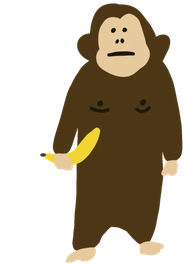
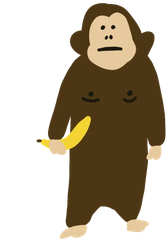
Monkey animations: idle, searching, thinking, found-it (optimised webp/gif, reduced-motion stills)

diff --git a/agora/web/js/mascot.js b/agora/web/js/mascot.js
@@ -1,0 +1,164 @@
+// The mascot's moods, from the owner's animations (assets/animations; web-sized copies in /web/assets/mascot,
+// cropped so every mood stands on the same feet with its right edge in the same place):
+//   idle       the start screen, beside the box
+//   searching  peeking over the live log while the hunt reads pages
+//   thinking   while costing / judging (first answer in, final not yet) and while the intent chips decide
+//   found-it   once, when the final verdict lands (peeking over the pick card), then a still frame
+// One monkey at a time. Animated WebP with a GIF fallback; prefers-reduced-motion gets a still frame (a
+// <source media> does that, no JS); a hidden tab gets the still too, so nothing animates unseen.
+// Module scope never touches the DOM: node tests import livelog.js and verdict.js, which import this.
+import { S, on } from './core.js';
+
+const BASE = '/web/assets/mascot/';
+export const MOODS = ['idle', 'searching', 'thinking', 'found-it'];
+export const ONCE_MS = 2000;                 // found-it's length (37 frames at 50-60 ms)
+const STILL = { 'found-it': 'monkey-found-it-still.png' };
+
+const esc = s => String(s).replace(/[&<>"']/g, c => ({ '&': '&amp;', '<': '&lt;', '>': '&gt;', '"': '&quot;', "'": '&#39;' }[c]));
+
+/** The files for a mood: {still, webp, gif}; still=true points all three at the still frame. */
+export function srcs(mood, { still = false } = {}) {
+  if (!MOODS.includes(mood)) mood = 'idle';
+  const s = BASE + (STILL[mood] || 'monkey-idle-still.png');
+  if (still) return { still: s, webp: s, gif: s };
+  return { still: s, webp: `${BASE}monkey-${mood}.webp`, gif: `${BASE}monkey-${mood}.gif` };
+}
+
+/** <picture> markup for a mood (decorative: aria-hidden, empty alt). */
+export function picture(mood, { cls = '', w = 0, h = 0, lazy = false } = {}) {
+  const f = srcs(mood);
+  const size = w && h ? ` width="${w}" height="${h}"` : '';
+  return `<picture class="mk${cls ? ' ' + esc(cls) : ''}" data-mood="${esc(mood)}" aria-hidden="true">`
+    + `<source media="(prefers-reduced-motion: reduce)" srcset="${f.still}">`
+    + `<source type="image/webp" srcset="${f.webp}">`
+    + `<img src="${f.gif}" alt=""${size} decoding="async"${lazy ? ' loading="lazy"' : ''}></picture>`;
+}
+
+/** Swap a <picture class="mk"> to another mood (no-op when nothing changes, so a loop never restarts). */
+export function setMood(pic, mood, { still = false, webp = null } = {}) {
+  if (!pic) return;
+  const f = srcs(mood, { still });
+  if (webp && !still) f.webp = webp;
+  const key = `${mood}|${still ? 1 : 0}|${f.webp}`;
+  if (pic.dataset.k === key) return;
+  pic.dataset.k = key;
+  pic.dataset.mood = mood;
+  pic.dataset.still = still ? '1' : '';
+  const [rm, wp] = pic.querySelectorAll('source');
+  const img = pic.querySelector('img');
+  if (rm) rm.srcset = f.still;
+  if (wp) wp.srcset = f.webp;
+  if (img) img.src = f.gif;
+}
+
+// ---------- what each spot shows, from the store (pure: tested in node) ----------
+const isFinal = v => !!(v && v.provisional === false);
+/** Over the live log: thinking once a first answer is being costed, else searching. */
+export function peekMood(s, deciding = false) {
+  return deciding || (s && s.verdict && !isFinal(s.verdict)) ? 'thinking' : 'searching';
+}
+/** Over the pick card: found-it on the final verdict (played once), thinking before it, a still after. */
+export function pickMood(s, { played = false, done = false } = {}) {
+  if (s && isFinal(s.verdict)) return played ? ['found-it', true] : ['found-it', false];
+  if (done) return ['idle', true];
+  return ['thinking', false];
+}
+
+// ---------- the browser side ----------
+let mounted = false, deciding = false, played = false, done = false, playing = false, onceTimer = 0, blobUrl = '';
+let pickEl = null;
+const RM = () => typeof matchMedia === 'function' && matchMedia('(prefers-reduced-motion: reduce)').matches;
+const hidden = () => typeof document !== 'undefined' && document.visibilityState === 'hidden';
+
+// found-it plays once: a once-only animation shares its timeline per URL, so each play gets a fresh blob URL
+// of the same bytes (fetched once)
+let foundBlob = null;
+function foundBytes() {
+  if (!foundBlob && typeof fetch === 'function') {
+    foundBlob = fetch(srcs('found-it').webp).then(r => (r.ok ? r.blob() : null)).catch(() => null);
+  }
+  return foundBlob || Promise.resolve(null);
+}
+// light preloading: a mood's file, once, at low priority, only when it will be needed soon
+const warmed = new Set();
+function warm(mood) {
+  if (warmed.has(mood) || RM() || typeof fetch !== 'function') return;
+  warmed.add(mood);
+  if (mood === 'found-it') { foundBytes(); return; }
+  try { fetch(srcs(mood).webp, { priority: 'low' }).catch(() => {}); } catch {}
+}
+
+/** The monkey that peeks over the pick card (verdict.js re-attaches it after each re-render of the card). */
+export function pickMonkey() {
+  if (typeof document === 'undefined') return null;
+  if (!pickEl) {
+    pickEl = document.createElement('span');
+    pickEl.className = 'vp-mk';
+    pickEl.setAttribute('aria-hidden', 'true');
+    pickEl.innerHTML = picture('thinking', { w: 64, h: 112 });
+    refresh();
+  }
+  return pickEl;
+}
+
+function playFound(pic) {
+  played = true;
+  clearTimeout(onceTimer);
+  if (RM() || hidden()) { setMood(pic, 'found-it', { still: true }); return; }
+  playing = true;
+  foundBytes().then(b => {
+    if (!playing) return;                    // the tab went away meanwhile (or a new hunt began)
+    if (blobUrl) { try { URL.revokeObjectURL(blobUrl); } catch {} blobUrl = ''; }
+    if (b && typeof URL !== 'undefined' && URL.createObjectURL) blobUrl = URL.createObjectURL(b);
+    setMood(pic, 'found-it', { webp: blobUrl || `${srcs('found-it').webp}?r=${Date.now()}` });
+    // then settle on the last frame (the same pose, as a still), so nothing replays later
+    onceTimer = setTimeout(() => { playing = false; setMood(pic, 'found-it', { still: true }); }, ONCE_MS + 150);
+  });
+}
+
+function refresh() {
+  if (typeof document === 'undefined') return;
+  const still = hidden();
+  const start = document.querySelector('#start .start-monkey');
+  if (start) setMood(start, deciding ? 'thinking' : 'idle', { still });
+  const peek = document.querySelector('#reading .ll-peek');
+  if (peek) setMood(peek, peekMood(S, deciding), { still });
+  const pic = pickEl && pickEl.querySelector('.mk');
+  if (pic && !playing) {
+    const [mood, st] = pickMood(S, { played, done });
+    if (mood === 'found-it' && !st) playFound(pic);
+    else setMood(pic, mood, { still: st || still });
+  }
+}
+
+/** main.js: the intent chips are working out what was meant (the start monkey thinks meanwhile). */
+export function setDeciding(v) {
+  deciding = !!v;
+  if (deciding) warm('thinking');
+  refresh();
+}
+
+export function mountMascot() {
+  if (mounted || typeof document === 'undefined') return;
+  mounted = true;
+  on('reset', d => {
+    played = false; done = false; playing = false; clearTimeout(onceTimer); onceTimer = 0;
+    if (d && d.q && !d.empty) { warm('thinking'); warm('found-it'); }
+    refresh();
+  });
+  for (const t of ['need', 'verdict', 'turn']) on(t, refresh);
+  on('done', () => { done = true; refresh(); });
+  on('error', e => { if (e && (e.kind === 'net' || e.kind === '429')) done = true; refresh(); });
+  document.addEventListener('visibilitychange', () => {
+    if (hidden()) {
+      clearTimeout(onceTimer); onceTimer = 0; playing = false;
+      document.querySelectorAll('picture.mk').forEach(p => setMood(p, p.dataset.mood || 'idle', { still: true }));
+    } else refresh();
+  });
+  // the hunt is about to start: fetch the live-log monkey while the question is typed (wide screens show it)
+  const ask = document.getElementById('ask');
+  if (ask && typeof matchMedia === 'function') {
+    ask.addEventListener('focusin', () => { if (matchMedia('(min-width: 641px)').matches) warm('searching'); });
+  }
+  refresh();
+}

diff --git a/agora/web/css/mascot.css b/agora/web/css/mascot.css
@@ -1,0 +1,35 @@
+/* The mascot's moods (mascot.js): idle beside the start box, searching over the live log, thinking while the
+   first answer is costed, found-it once over the pick card. One monkey at a time, small, never in the way. */
+picture.mk { display: block; pointer-events: none; }
+picture.mk img { display: block; width: 100%; height: auto; }
+
+/* ---------- over the live log while it reads (behind the panel: only the head and the busy hand show) ---------- */
+#reading .ll-peek {
+  position: absolute; z-index: 0; right: 180px; top: -36px; width: 52px;
+  animation: mk-peek-up 520ms 200ms var(--ease, ease) both;
+}
+#reading[data-state="done"] .ll-peek { display: none; }
+/* he stands in the gap between the box and the header links; where that gap closes (under 1200 px) he moves
+   under the links and shows a little less; a phone (and a tablet whose links wrap) has no room above the panel */
+@media (max-width: 1199px) { #reading .ll-peek { right: 44px; top: -27px; } }
+@media (max-width: 799px) { #reading .ll-peek { display: none; } }
+/* once the pick card is up, its monkey takes over */
+#app:has(#verdict .v-pick:not([hidden]) .vp-mk) #reading .ll-peek { display: none; }
+@keyframes mk-peek-up { from { transform: translateY(36px); } to { transform: none; } }
+
+/* ---------- over the pick card: thinking while it is costed, found-it once on the final answer ---------- */
+#verdict .v-pick { position: relative; }
+.vp-mk {
+  position: absolute; right: 22px; bottom: 100%; width: 72px; height: 50px; overflow: hidden;
+  pointer-events: none;
+}
+/* both crops share the right edge and the feet: anchor right, fixed height */
+.vp-mk picture.mk { position: absolute; right: 0; top: 2px; width: auto; animation: mk-peek-up 420ms var(--ease, ease) both; }
+.vp-mk picture.mk img { width: auto; height: 104px; }
+.vp-mk picture.mk[data-mood="found-it"] img { height: 104px; }
+/* room for him above the card where the card has none */
+@media (max-width: 1099px) { #verdict .v-pick:has(.vp-mk) { margin-top: 52px; } }
+
+@media (prefers-reduced-motion: reduce) {
+  #reading .ll-peek, .vp-mk picture.mk { animation: none; }
+}

diff --git a/agora/web/js/main.js b/agora/web/js/main.js
@@ -1,6 +1,7 @@
 // Boot, start screen, header, need chips, ticker, URL state, keys, lab panel, stage script (B1).
 import { S, bus, emit, on, eur, domainOf, resetStore, allIn, isJobItem, pickUrl, shipsUnconfirmed, BRAND } from './core.js';
 import * as stream from './stream.js';
+import { mountMascot, setDeciding } from './mascot.js';
 
 const $ = id => document.getElementById(id);
 const app = $('app'), bar = $('bar'), ask = $('ask'), qIn = $('q'), start = $('start'), h1 = start.querySelector('h1');
@@ -140,6 +141,11 @@ async function run(q, { push = true, cat = null, free = false, intent = null, pl
   q = String(q || '').trim().replace(/\s+/g, ' ');
   if (q.length < 2) { qIn.focus(); return; }
   const I = mods.intent || null;
+  // the monkey thinks while the meaning (and the category) is worked out; the hunt or the category page ends it
+  setDeciding(true);
+  try { return await runDecided(q, I, { push, cat, free, intent, plan, interp }); } finally { setDeciding(false); }
+}
+async function runDecided(q, I, { push, cat, free, intent, plan, interp }) {
   if (I && !plan && !cat && !free) {
     interp = interp || await within(I.interpret(q), 900);
     const list = (interp && interp.intents) || [];
@@ -171,6 +177,7 @@ async function run(q, { push = true, cat = null, free = false, intent = null, pl
   showCrumbs(rw ? plan.hunt.q : q, huntCat);
   if (I) { if (interp && plan) I.show(q, interp, plan); else I.clear(); }
   setStatus('hunt', 'reading the question…');
+  setDeciding(false);
   setPhase('hunting');
   await stream.startHunt(q, rw ? { send: plan.hunt.q, cat: plan.hunt.cat, intent: plan.hunt.intent || plan.id } : {});
 }
@@ -731,6 +738,7 @@ async function boot() {
   ph(); narrowPh.addEventListener && narrowPh.addEventListener('change', ph);
   if (params.has('lab')) { const l = $('lab-link'); if (l) l.hidden = false; }
   renderExamples();
+  mountMascot();
   await mountAll();
   emit('ready', {});
   if (params.get('lab') === '1') toggleLab(true);

diff --git a/agora/web/css/livelog.css b/agora/web/css/livelog.css
@@ -17,19 +17,8 @@
 :root[data-theme="dark"] #reading.ll { --ll-bg: var(--paper-2, #1D1B18); --ll-live: var(--live, #FF7A45); --ll-blue: var(--ink-blue, #9DB8E8); }
 #reading.ll[hidden], [data-phase="start"] #reading.ll { display: none; }
 
-/* ---------- the monkey peeking over the panel while it reads (gone once the log folds) ---------- */
+/* the monkey peeking over the panel while it reads: mascot.css */
 #reading.ll { position: relative; }
-#reading .ll-peek {
-  position: absolute; z-index: 0; right: 232px; top: -25px; width: 48px; height: 40px;
-  transform-origin: 50% 100%; pointer-events: none;
-  animation: ll-peek-up 520ms 200ms var(--ease, ease) both, ll-sniff 2.4s 900ms ease-in-out infinite;
-}
-#reading[data-state="done"] .ll-peek { display: none; }
-@keyframes ll-peek-up { from { transform: translateY(28px); } to { transform: none; } }
-@keyframes ll-sniff { 0%, 100% { transform: none; } 30% { transform: rotate(-4deg) translateY(-1px); } 60% { transform: rotate(3deg); } }
-@media (prefers-reduced-motion: reduce) { #reading .ll-peek { animation: none; } }
-/* a phone has no room above the panel (the box sits right on it) */
-@media (max-width: 640px) { #reading .ll-peek { display: none; } }
 
 /* ---------- the panel during the hunt ---------- */
 #reading .ll-panel {

diff --git a/agora/web/index.html b/agora/web/index.html
@@ -33,6 +33,7 @@
 <link rel="stylesheet" href="/web/css/catpage.css">
 <link rel="stylesheet" href="/web/css/intent.css">
 <link rel="stylesheet" href="/web/css/listings.css">
+<link rel="stylesheet" href="/web/css/mascot.css">
 <link rel="icon" href="/web/assets/brand/favicon.ico" sizes="16x16 32x32 48x48">
 <link rel="icon" href="/web/assets/brand/favicon-32.png" type="image/png" sizes="32x32">
 <link rel="apple-touch-icon" href="/web/assets/brand/apple-touch-icon.png">
@@ -68,7 +69,7 @@
 
   <main id="main">
     <section id="start" aria-labelledby="ask-title">
-      <img class="start-monkey" src="/web/assets/brand/mascot.svg" width="72" height="131" alt="" aria-hidden="true">
+      <picture class="mk start-monkey" data-mood="idle" aria-hidden="true"><source media="(prefers-reduced-motion: reduce)" srcset="/web/assets/mascot/monkey-idle-still.png"><source type="image/webp" srcset="/web/assets/mascot/monkey-idle.webp"><img src="/web/assets/mascot/monkey-idle.gif" width="75" height="131" alt="" decoding="async" loading="lazy"></picture>
       <h1 id="ask-title">What do you want to <em>buy</em>?</h1>
       <div id="examples" aria-label="Try one"></div>
     </section>

diff --git a/agora/web/js/verdict.js b/agora/web/js/verdict.js
@@ -2,6 +2,7 @@
 // hunting… → provisional answer + "checking N more shops" → final answer + "✓ checked".
 import { S, on, emit, eur, cutSrc, goHref, domainOf, isSetAside, isProductPhoto, allIn, pickUrl, cheapestByCondition, shippingUnknown, shipsUnconfirmed, shipNote, trustMark, isUnsure, unsureWhy } from './core.js';
 import { flagHtml, originFor, countryName } from './flags.js';
+import { pickMonkey } from './mascot.js';
 
 const esc = s => String(s == null ? '' : s).replace(/[&<>"']/g, c => ({ '&': '&amp;', '<': '&lt;', '>': '&gt;', '"': '&quot;', "'": '&#39;' }[c]));
 
@@ -211,6 +212,8 @@ function setPick(lead) {
     if (fb && img.getAttribute('src') !== fb) img.src = fb;
     else { img.remove(); el.querySelector('.vp-pic').classList.add('is-mono'); }
   });
+  const mk = pickMonkey();                 // the monkey peeking over the card (kept across re-renders)
+  if (mk) el.prepend(mk);
   el.dataset.url = lead.url;
   el.hidden = false;
 }

diff --git a/agora/web/js/livelog.js b/agora/web/js/livelog.js
@@ -3,6 +3,7 @@
 //
 // Wired by main.js mountAll() (mountLivelog($('reading'), line)); stream.js stamps d._t / it._t = ev.t_ms.
 import * as core from './core.js';
+import { picture } from './mascot.js';
 
 const { S, on } = core;
 const RM = typeof matchMedia === 'function' ? matchMedia('(prefers-reduced-motion: reduce)') : { matches: true };
@@ -119,7 +120,7 @@ function build(el) {
   }
   el.classList.add('ll', 'livelog');
   el.innerHTML = `
-    <img class="ll-peek" src="/web/assets/brand/logo.svg" width="48" height="40" alt="" aria-hidden="true">
+    ${picture('searching', { cls: 'll-peek', w: 52, h: 91 })}
     <div class="ll-panel">
       <div class="ll-head">
         <span class="ll-dot" aria-hidden="true"></span>

diff --git a/agora/web/css/intent.css b/agora/web/css/intent.css
@@ -50,5 +50,5 @@
 .it-card .cp-arrow { grid-column: 2; grid-row: 1; color: var(--ink-3); }
 @media (prefers-reduced-motion: reduce) { .it-card { transition: none; } .it-card:hover { transform: none; } }
 
-/* the monkey peeking over the live log stands 25px above it: keep it off the chips */
-@media (min-width: 641px) { #intents:not([hidden]) ~ #reading.ll:not([hidden]):not([data-state="done"]) { margin-top: 26px; } }
+/* the monkey peeking over the live log stands 36px above it: keep it off the chips */
+@media (min-width: 641px) { #intents:not([hidden]) ~ #reading.ll:not([hidden]):not([data-state="done"]) { margin-top: 38px; } }

diff --git a/agora/web/css/base.css b/agora/web/css/base.css
@@ -152,7 +152,7 @@ button { cursor: pointer; }
 /* the mascot, once: standing beside the box with his banana (wide screens only; the header logo is enough on a phone) */
 #start { position: relative; }
 .start-monkey {
-  position: absolute; left: calc(50% + 344px); top: 30px; width: 72px; height: auto;
+  position: absolute; left: calc(50% + 344px); top: 30px; width: 75px; height: auto;
   animation: rise 700ms 180ms var(--ease) both; pointer-events: none;
 }
 @media (max-width: 1000px) { .start-monkey { display: none; } }

diff --git a/scripts/make_mascot_assets.py b/scripts/make_mascot_assets.py
@@ -1,0 +1,38 @@
+# derive web-sized mascot animations from assets/animations (the source of truth)
+import sys
+from PIL import Image
+SRC, OUT = sys.argv[1], sys.argv[2]
+H = int(sys.argv[3]) if len(sys.argv) > 3 else 240
+Q = int(sys.argv[4]) if len(sys.argv) > 4 else 72
+BOX = {'idle': (88, 0, 430, 600), 'searching': (88, 0, 430, 600), 'thinking': (88, 0, 430, 600), 'found-it': (12, 0, 430, 600)}
+STEP = {'idle': 2, 'searching': 2, 'thinking': 2, 'found-it': 1}
+for n, box in BOX.items():
+    im = Image.open(f'{SRC}/monkey-{n}.webp')
+    frames, durs = [], []
+    for i in range(im.n_frames):
+        im.seek(i)
+        f = im.convert('RGBA').crop(box)
+        w = round(f.width * H / f.height)
+        frames.append(f.resize((w, H), Image.LANCZOS)); durs.append(im.info.get('duration') or 50)
+    durs = [d if d >= 20 else 50 for d in durs]
+    k = STEP[n]
+    frames = frames[::k]; durs = [sum(durs[i:i + k]) for i in range(0, len(durs), k)]
+    once = n == 'found-it'
+    kw = dict(save_all=True, append_images=frames[1:], duration=durs, loop=1 if once else 0)
+    frames[0].save(f'{OUT}/monkey-{n}.webp', 'WEBP', quality=Q, method=6, alpha_quality=80, **kw)
+    gh = 150
+    gf = []
+    for f in frames:
+        g = f.resize((round(f.width * gh / H), gh), Image.LANCZOS)
+        a = g.getchannel('A').point(lambda v: 255 if v > 110 else 0)
+        p = g.convert('RGB').quantize(colors=31, method=Image.MEDIANCUT, dither=Image.NONE)
+        p.paste(31, mask=Image.eval(a, lambda v: 255 - v))
+        p.info['transparency'] = 31
+        gf.append(p)
+    gkw = dict(save_all=True, append_images=gf[1:], duration=durs, transparency=31, disposal=2)
+    if not once:
+        gkw['loop'] = 0
+    gf[0].save(f'{OUT}/monkey-{n}.gif', 'GIF', **gkw)
+    still = frames[-1] if once else frames[0]
+    still.save(f'{OUT}/monkey-{n}-still.png', optimize=True)
+    print(n, frames[0].size, len(frames), sum(durs))

diff --git a/tests/test_web_mascot.py b/tests/test_web_mascot.py
@@ -1,0 +1,26 @@
+"""The mascot's animated moods (agora/web/js/mascot.js), checked with node: searching over the live log,
+thinking while the first answer is costed, found-it once on the final verdict, still frames for reduced motion."""
+import pathlib
+import shutil
+import subprocess
+
+import pytest
+
+ROOT = pathlib.Path(__file__).resolve().parent.parent
+NODE = shutil.which("node")
+
+
+@pytest.mark.skipif(NODE is None, reason="node not installed")
+def test_mascot_moods():
+    r = subprocess.run([NODE, str(ROOT / "tests" / "web" / "mascot.test.mjs")], capture_output=True, text=True,
+                       timeout=60, cwd=ROOT)
+    assert r.returncode == 0, r.stdout + r.stderr
+    assert "FAIL" not in r.stdout
+
+
+def test_start_screen_mascot_is_the_idle_animation_and_lazy():
+    html = (ROOT / "agora" / "web" / "index.html").read_text()
+    assert 'class="mk start-monkey"' in html and "monkey-idle.webp" in html and 'loading="lazy"' in html
+    assert "/web/css/mascot.css" in html
+    css = (ROOT / "agora" / "web" / "css" / "mascot.css").read_text()
+    assert "prefers-reduced-motion" in css
